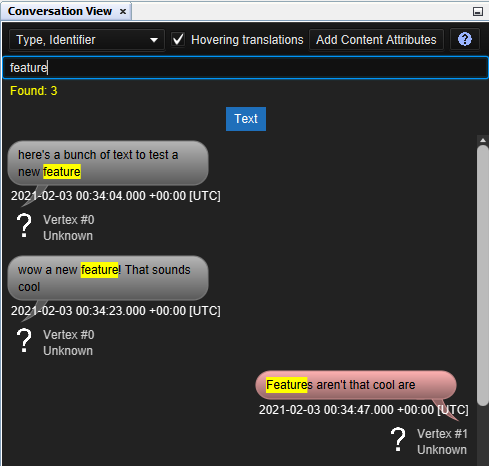
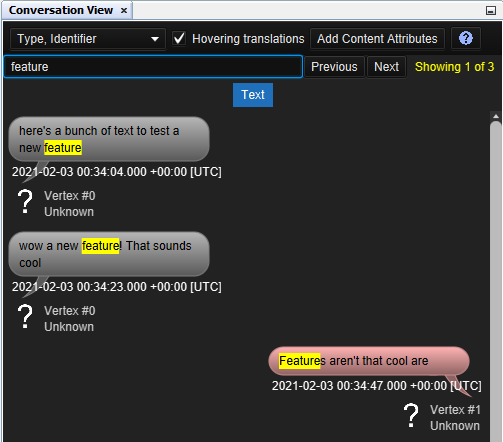
updated conversation view help

Changed region(s): [[0.0, 0.0, 1.0, 1.0]]

diff --git a/CoreConversationView/src/au/gov/asd/tac/constellation/views/conversationview/docs/conversation-view.md b/CoreConversationView/src/au/gov/asd/tac/constellation/views/conversationview/docs/conversation-view.md
@@ -73,4 +73,5 @@ search term and the view will highlight all the matches found as well as
 present a count of how many matches there are. It will only search the
 visible parts of a bubble (i.e. the parts toggled on using the buttons
 at the top of the window). If you change what parts of the bubble are
-shown, the search will update with the new results.
+shown, the search will update with the new results. You can jump to each match 
+by pressing the Previous and Next buttons.
